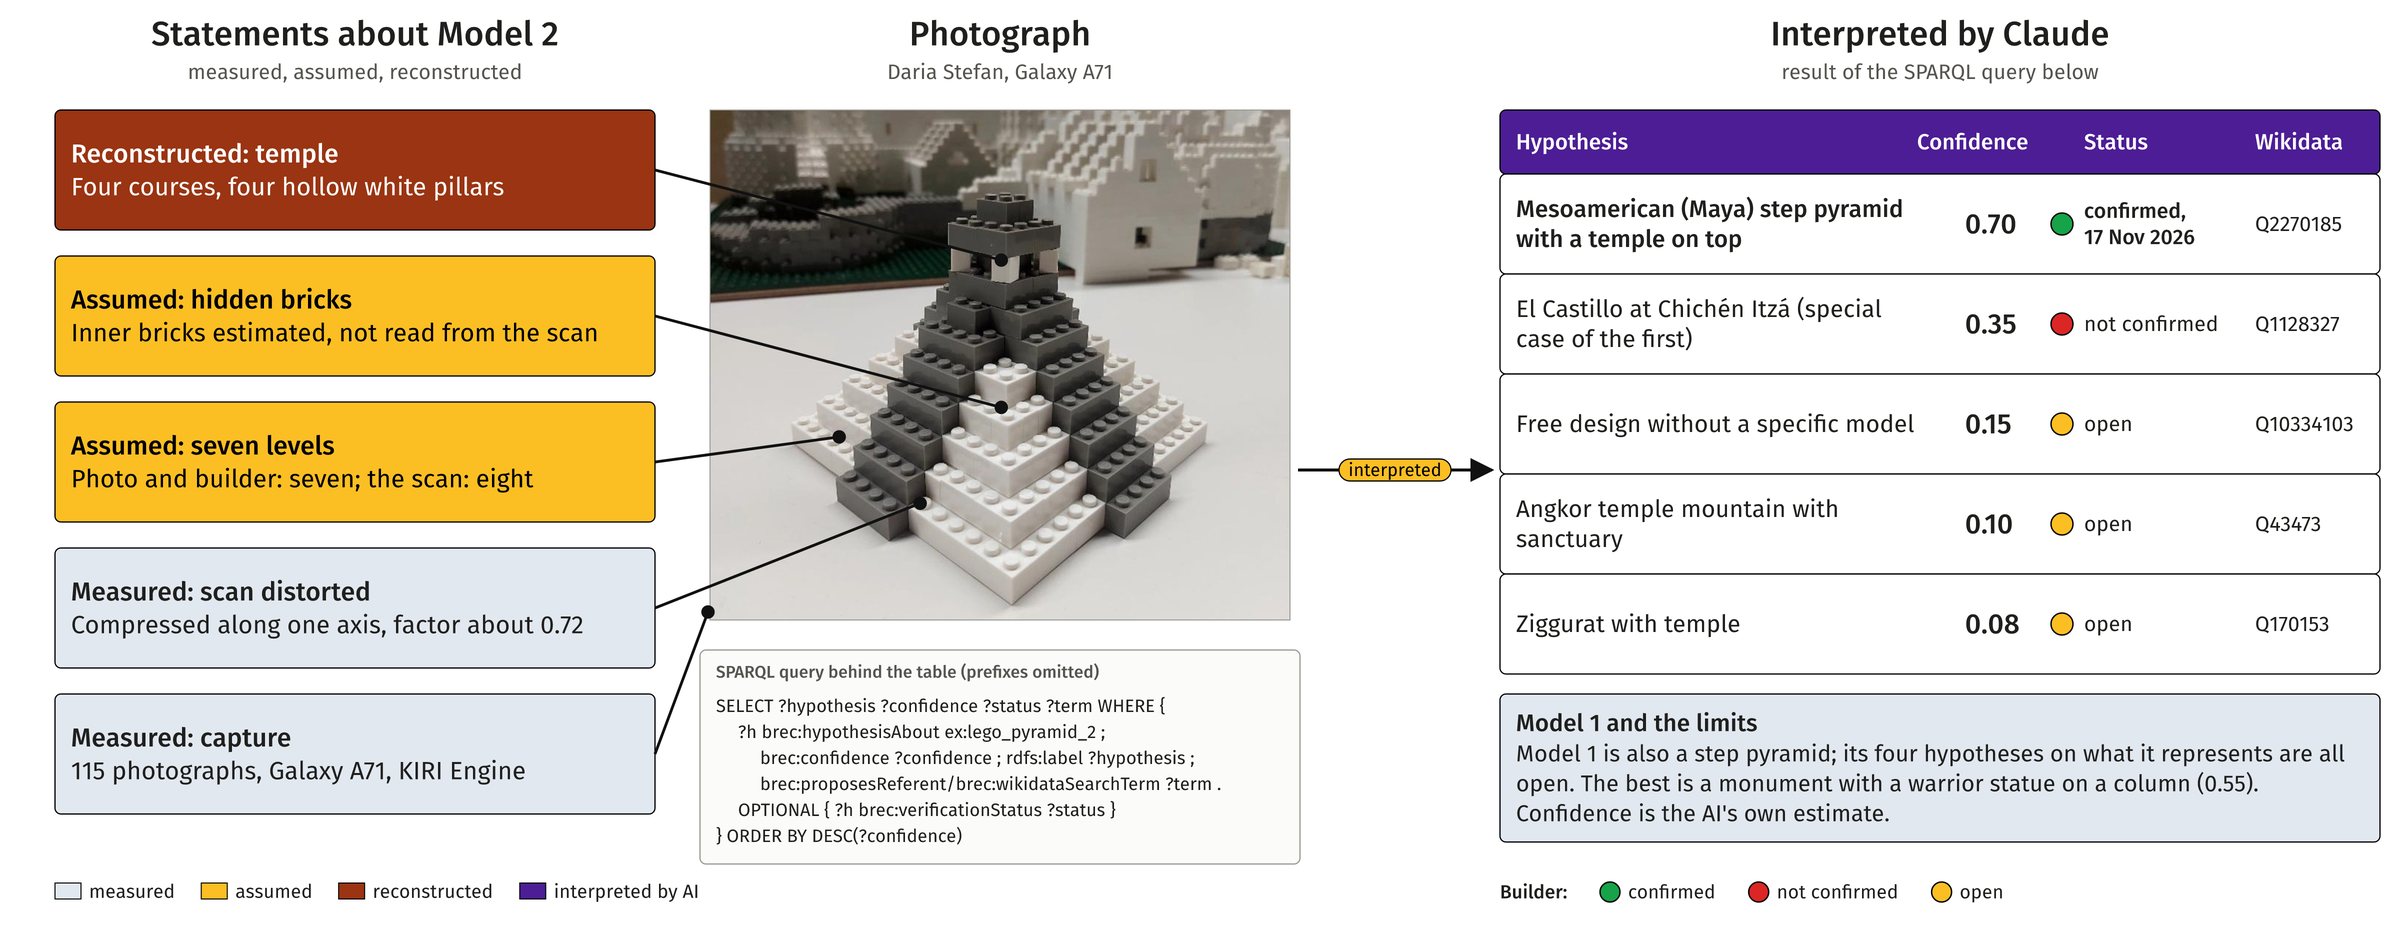
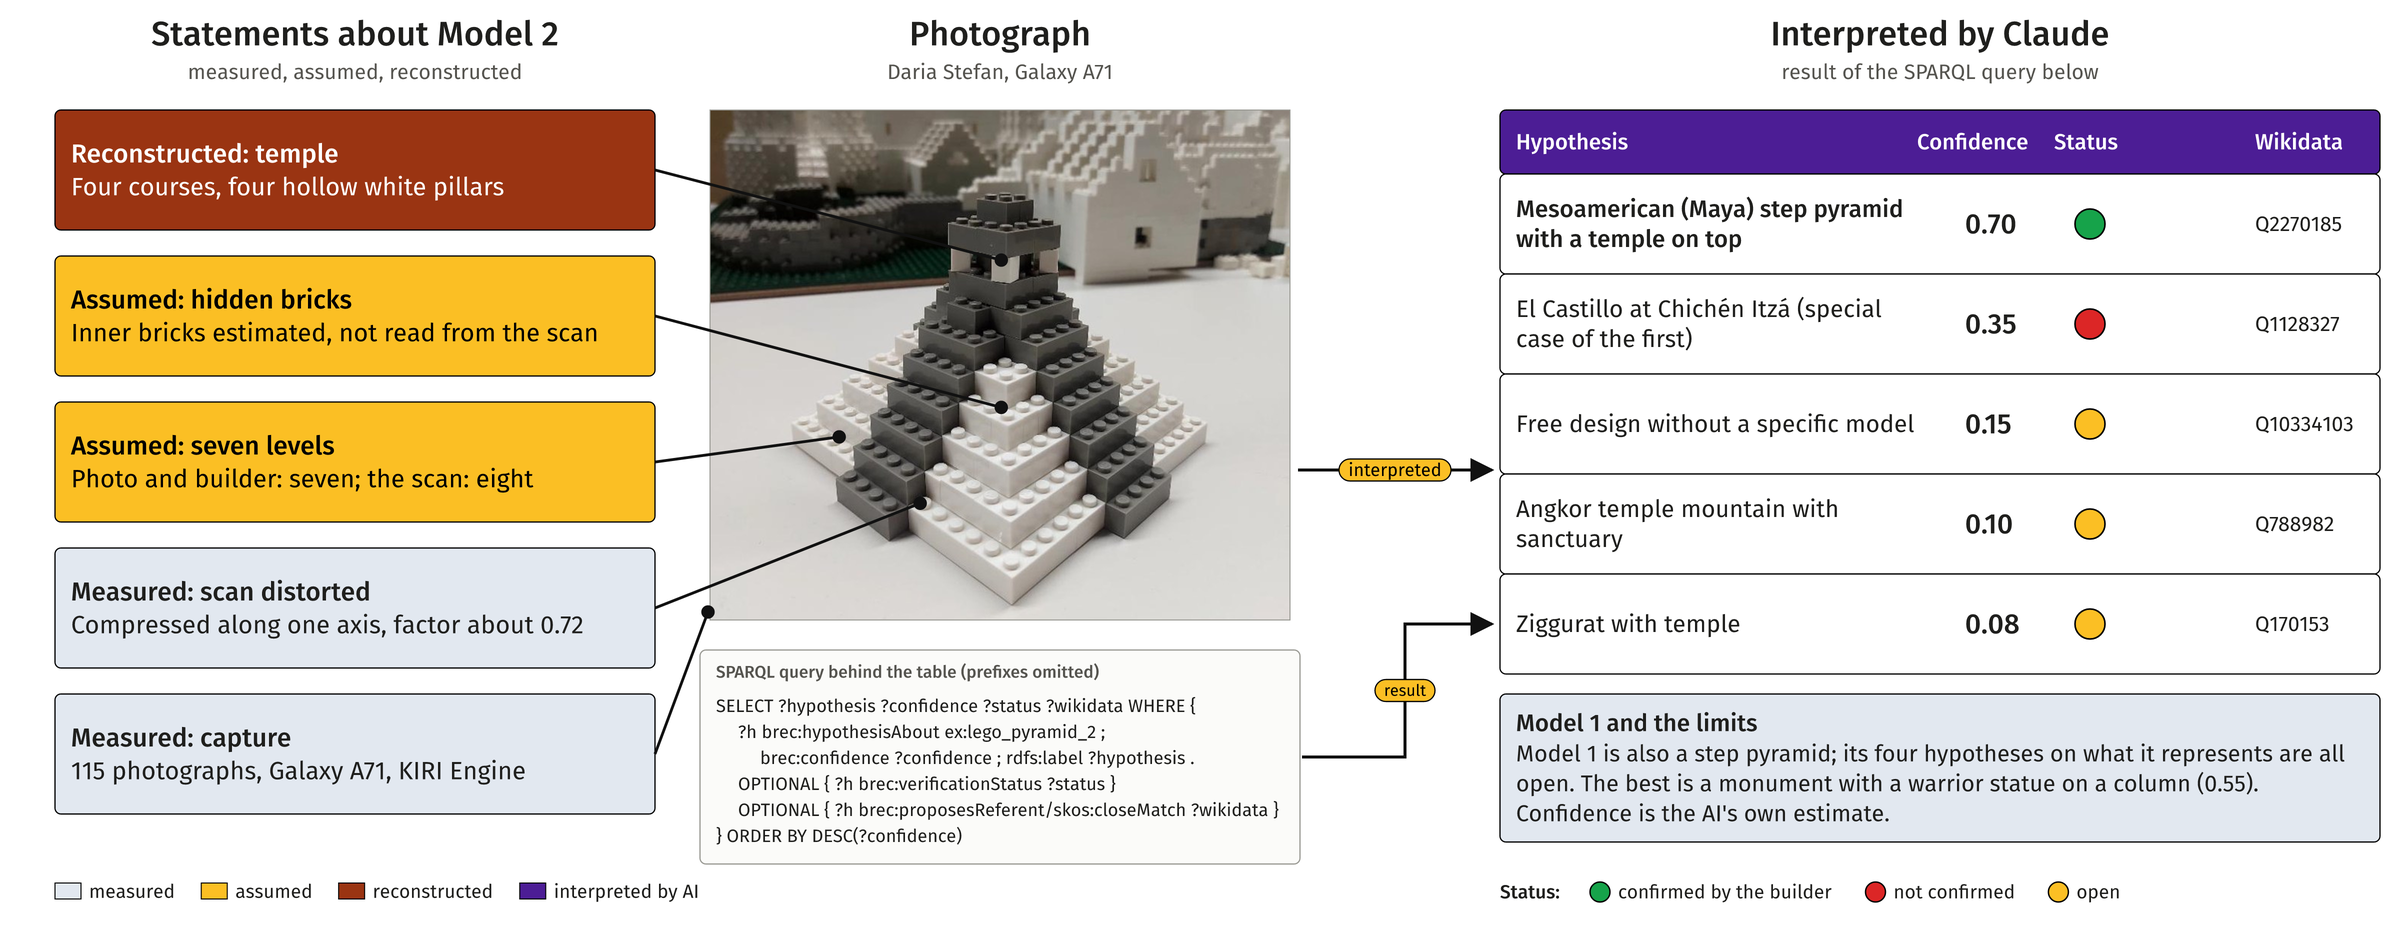
Poster Fig. 3: query linked to the table, status as traffic lights only, Bakong for the Angkor candidate
The query uses skos:closeMatch for the Wikidata column, as in data/wikidata_mapping.ttl of brick-brec. The status text is left to the legend.

Claude-Session: https://claude.ai/code/session_0145BdeBMFFGobmaZDy6Deu8

diff --git a/dh2027/brec_poster/figures.py b/dh2027/brec_poster/figures.py
@@ -251,7 +251,7 @@ def fig3():
     rows = [("Mesoamerican (Maya) step pyramid with a temple on top", "0.70", "confirmed,|17 Nov 2026", "Q2270185"),
             ("El Castillo at Chichén Itzá (special case of the first)", "0.35", "not confirmed", "Q1128327"),
             ("Free design without a specific model", "0.15", "open", "Q10334103"),
-            ("Angkor temple mountain with sanctuary", "0.10", "open", "Q43473"),
+            ("Angkor temple mountain with sanctuary", "0.10", "open", "Q788982"),
             ("Ziggurat with temple", "0.08", "open", "Q170153")]
     cx = [TX + 16, TX + 445, TX + 550, TX + 755]
     HH, RH = 64, 100
@@ -261,7 +261,7 @@ def fig3():
         for j, ln in enumerate(lines):
             svg.text(x, cy + (j - (len(lines) - 1) / 2) * lh, ln, size, med, fill, anchor, maxw=maxw)
     svg.rect(TX, 110, TW_, HH, PURPLE, name="thead")
-    for x, t in zip([cx[0], cx[1] - 28, cx[2] + 34, cx[3]], ["Hypothesis", "Confidence", "Status", "Wikidata"]):
+    for x, t in zip([cx[0], cx[1] - 28, cx[2] + 4, cx[3]], ["Hypothesis", "Confidence", "Status", "Wikidata"]):
         svg.text(x, 110 + HH / 2, t, 22, True, "#fff", "start", maxw=250)
     for i, (h, c, st, w) in enumerate(rows):
         y = 110 + HH + i * RH
@@ -270,8 +270,7 @@ def fig3():
         mtext(cx[0], cy, wrap(h, 24, 420, i == 0), 24, i == 0, maxw=430)
         mtext(cx[1] + 20, cy, [c], 28, True, maxw=90)
         light = "#16a34a" if st.startswith("confirmed") else ("#dc2626" if st.startswith("not confirmed") else AMBER)
-        svg.o.append(f'<circle cx="{cx[2] + 12}" cy="{cy}" r="11" fill="{light}" stroke="#000" stroke-width="1.4"/>')
-        mtext(cx[2] + 34, cy, st.split("|"), 21, i == 0, maxw=170)
+        svg.o.append(f'<circle cx="{cx[2] + 40}" cy="{cy}" r="15" fill="{light}" stroke="#000" stroke-width="1.6"/>')
         ws = w.split("|")
         if len(ws) > 1:
             svg.text(cx[3], cy - 11, ws[0], 21, False, INK, maxw=110)
@@ -288,22 +287,25 @@ def fig3():
     qx, qy, qw, qh = P0 - 10, PY + PHT + 30, PWD + 20, 214
     svg.rect(qx, qy, qw, qh, "#fbfbf9", stroke="#9a9a94", name="query")
     svg.text(qx + 16, qy + 22, "SPARQL query behind the table (prefixes omitted)", 17, True, MUTED, maxw=qw - 30)
-    code = [(0, "SELECT ?hypothesis ?confidence ?status ?term WHERE {"),
+    code = [(0, "SELECT ?hypothesis ?confidence ?status ?wikidata WHERE {"),
             (1, "?h brec:hypothesisAbout ex:lego_pyramid_2 ;"),
-            (2, "brec:confidence ?confidence ; rdfs:label ?hypothesis ;"),
-            (2, "brec:proposesReferent/brec:wikidataSearchTerm ?term ."),
+            (2, "brec:confidence ?confidence ; rdfs:label ?hypothesis ."),
             (1, "OPTIONAL { ?h brec:verificationStatus ?status }"),
+            (1, "OPTIONAL { ?h brec:proposesReferent/skos:closeMatch ?wikidata }"),
             (0, "} ORDER BY DESC(?confidence)")]
     for j, (ind, t) in enumerate(code):
         svg.text(qx + 16 + ind * 22, qy + 56 + j * 26, t, 18, False, INK, maxw=qw - 30 - ind * 22)
+    ex_, ey_ = qx + qw, qy + qh / 2
+    svg.arrow([(ex_ + 2, ey_), (1405, ey_), (1405, 624), (TX - 8, 624)], sw=3)
+    svg.chip(1405, (ey_ + 624) / 2, "result", 16)
     LY = 892
     svg.legend([(GREY, "measured"), (AMBER, "assumed"), (ORANGE, "reconstructed"), (PURPLE, "interpreted by AI")], 55, LY - 9, 19)
     lx = TX
-    svg.text(lx, LY, "Builder:", 19, True, INK, maxw=100)
-    lx += 100
-    for col, t in (("#16a34a", "confirmed"), ("#dc2626", "not confirmed"), (AMBER, "open")):
+    svg.text(lx, LY, "Status:", 19, True, INK, maxw=100)
+    lx += 90
+    for col, t in (("#16a34a", "confirmed by the builder"), ("#dc2626", "not confirmed"), (AMBER, "open")):
         svg.o.append(f'<circle cx="{lx + 10}" cy="{LY}" r="10" fill="{col}" stroke="#000" stroke-width="1.4"/>')
-        svg.text(lx + 28, LY, t, 19, False, INK, maxw=200)
+        svg.text(lx + 28, LY, t, 19, False, INK, maxw=260)
         lx += 60 + tw(t, 19)
     save(svg, "fig3_model2")
 
